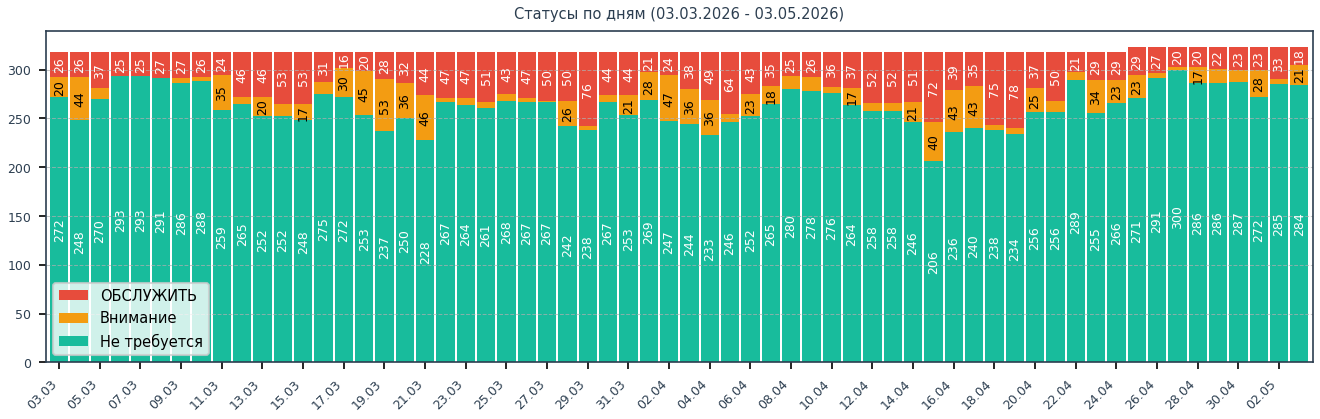
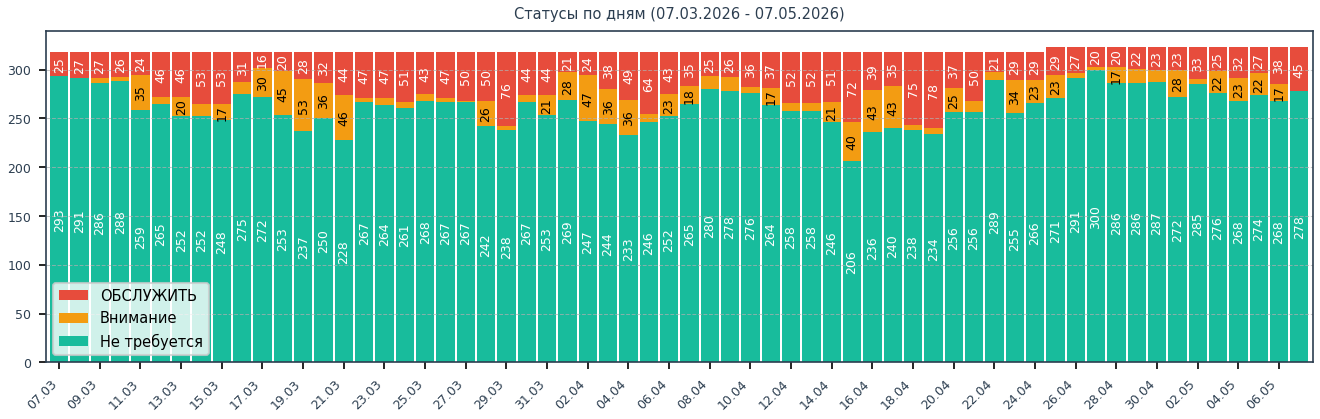
добавлена иконка для сайта

diff --git a/maintenance_alert.py b/maintenance_alert.py
@@ -22,7 +22,7 @@ from typing import Dict, List, Tuple, Optional, Any, NamedTuple
 class Config:
     """Класс для хранения всех конфигурационных данных."""
     VERSION = "2.7.1"
-    RELEASE_DATE = "02.05.2026"
+    RELEASE_DATE = "07.05.2026"
 
     PROGRAM_DIR = Path(__file__).parent.absolute()
     DATA_DIR = PROGRAM_DIR / "data"